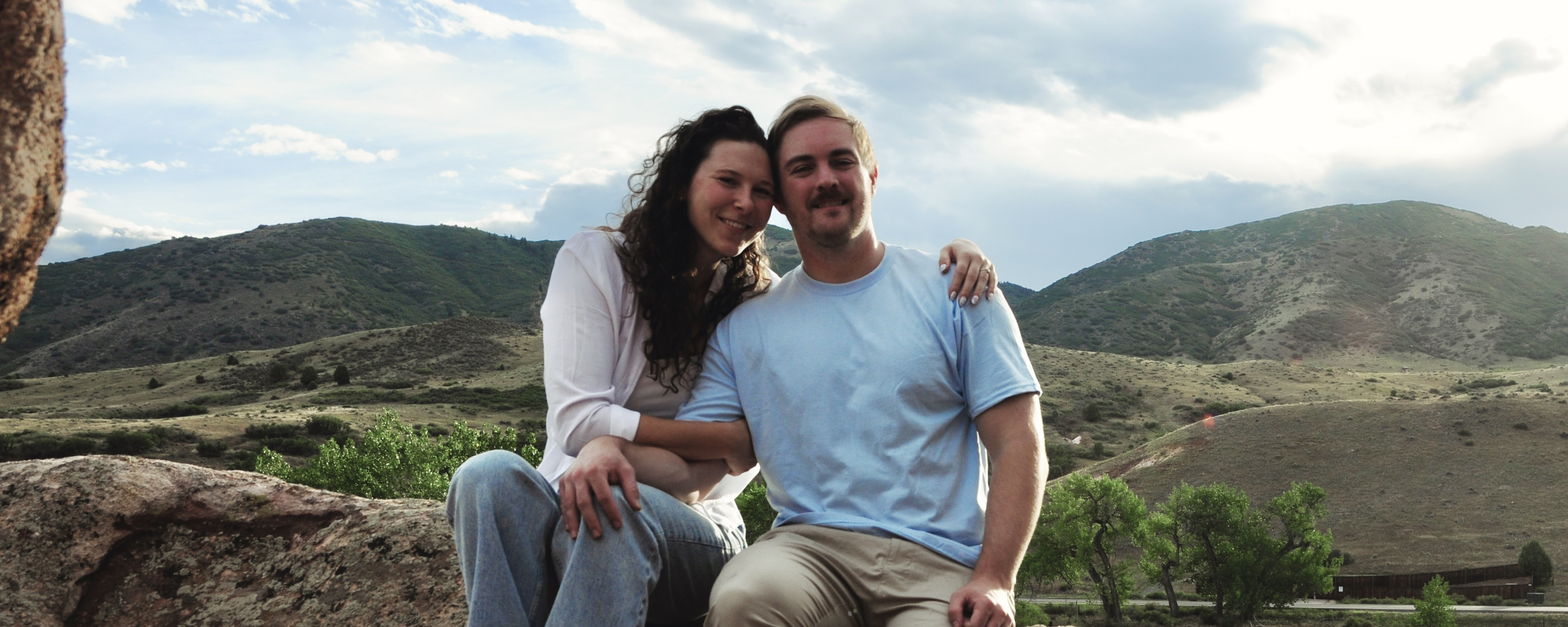
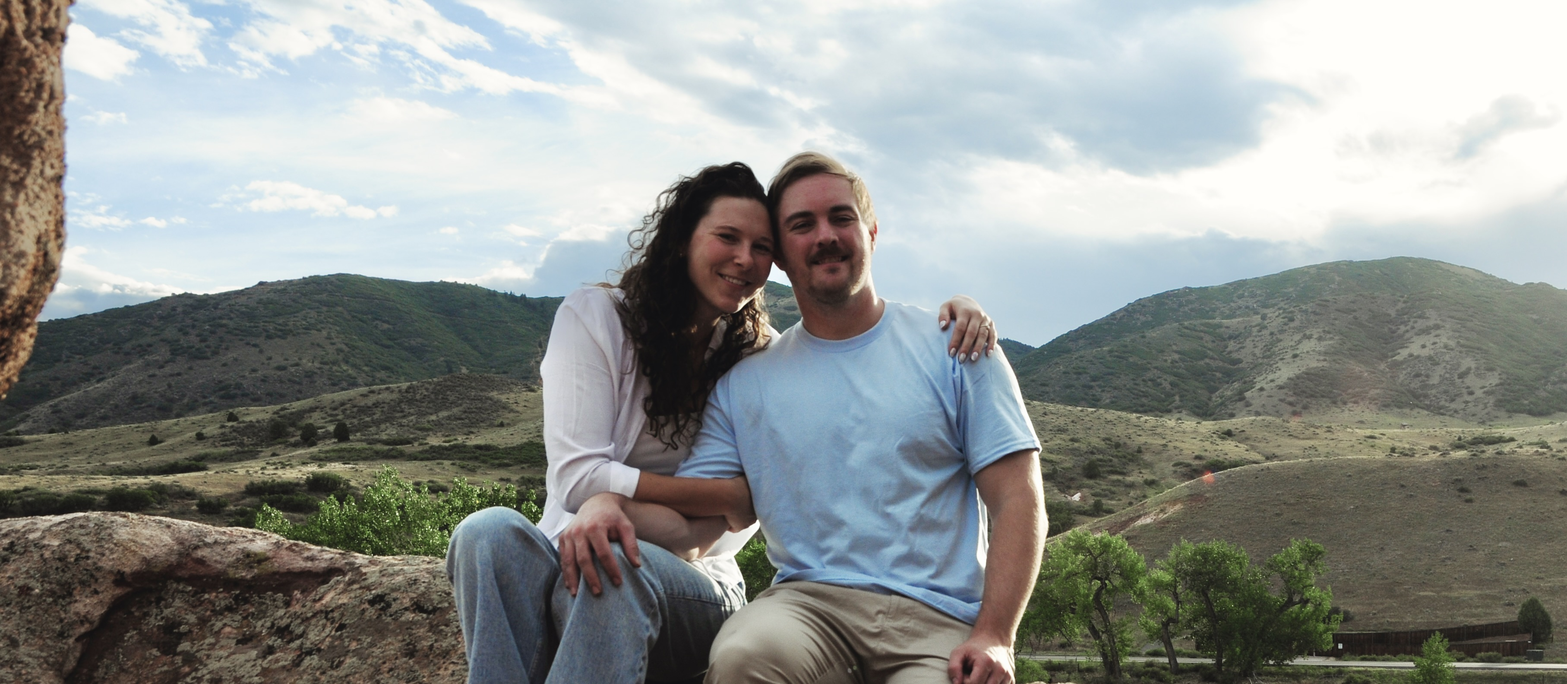
tweaks requested by parents' git push

diff --git a/details.html b/details.html
@@ -3,6 +3,7 @@
 <head>
   <meta charset="UTF-8">
   <meta name="viewport" content="width=device-width, initial-scale=1.0">
+  <meta name="robots" content="noindex, nofollow">
   <link rel="preconnect" href="https://fonts.googleapis.com">
   <link rel="preconnect" href="https://fonts.gstatic.com" crossorigin>
   <link
@@ -46,7 +47,7 @@
       <section class="page-header">
         <p class="eyebrow">THE CELEBRATION</p>
         <h1>Event Details</h1>
-        <p class="body-large">We can't wait to celebrate at our wedding reception with you! We're keeping things fun, inviting, and centered around what matters most: good food, good drinks, and good people. We'd love to have you there!</p>
+        <p class="body-large">We can't wait to celebrate our wedding reception with you! We're keeping things fun, inviting, and centered around what matters most: good food, good drinks, and good people. We'd love to have you there!</p>
       </section>
 
       <div class="hero-divider"></div>
@@ -73,14 +74,21 @@
             </div>
           </div>
           <div class="timeline-item">
-            <div class="timeline-time">6pm</div>
+            <div class="timeline-time">6:30pm</div>
             <div class="timeline-content">
-              <h3>Dinner</h3>
-              <p>Grab some food and enjoy a few words from the people we love.</p>
+              <h3>Time to eat</h3>
+              <p>Grab a plate of food and find a seat wherever you’d like! No assigned seating—keep mingling, grab a spot wherever, and enjoy dinner.</p>
             </div>
           </div>
           <div class="timeline-item">
-            <div class="timeline-time">7-10pm</div>
+            <div class="timeline-time">7pm</div>
+            <div class="timeline-content">
+              <h3>Speeches</h3>
+              <p>Enjoy a few words from the people we love. We promise to keep them short and sweet!</p>
+            </div>
+          </div>
+          <div class="timeline-item">
+            <div class="timeline-time">8-10pm</div>
             <div class="timeline-content">
               <h3>Drinks & dancing</h3>
               <p>Break out the dancing shoes and enjoy some music.</p>
@@ -136,7 +144,7 @@
           </div>
           <div class="info-card">
             <h3>Food & drinks</h3>
-            <p>Dinner and drinks will be provided. Please let us know about dietary restrictions when you RSVP.</p>
+            <p>Food and drinks will be provided. Please let us know about dietary restrictions when you RSVP.</p>
           </div>
           <div class="info-card">
             <h3>RSVP</h3>

diff --git a/faq.html b/faq.html
@@ -3,6 +3,7 @@
 <head>
   <meta charset="UTF-8">
   <meta name="viewport" content="width=device-width, initial-scale=1.0">
+  <meta name="robots" content="noindex, nofollow">
   <link rel="preconnect" href="https://fonts.googleapis.com">
   <link rel="preconnect" href="https://fonts.gstatic.com" crossorigin>
   <link
@@ -68,7 +69,7 @@
           <details class="faq-item">
             <summary>Is there a registry?<span>+</span></summary>
             <div class="faq-answer">
-              <p>Your presence is all we ask for but if you'd like to contribute to a house or travel fund, you can use <a href="https://venmo.com/u/Emily-Douglas-14" class="text-link" target="_blank" rel="noopener noreferrer">Venmo</a> or <a href="https://www.paypal.com/paypalme/emilymdouglas" class="text-link" target="_blank" rel="noopener noreferrer">PayPal</a>. Please make sure to include your name and what you think we should use the funds for (hiking the Andes? a bottle of wine in Italy? a certain household feature you could never live without?).</p>
+              <p>Your presence is all we ask for. However, if you'd like to contribute to a house or travel fund, you can use <a href="https://venmo.com/u/Emily-Douglas-14" class="text-link" target="_blank" rel="noopener noreferrer">Venmo</a> or <a href="https://www.paypal.com/paypalme/emilymdouglas" class="text-link" target="_blank" rel="noopener noreferrer">PayPal</a>. Please make sure to include your name and what you think we should use the funds for (hiking the Andes? a bottle of wine in Italy? a certain household feature you could never live without?).</p>
             </div>
           </details>
 
@@ -89,7 +90,7 @@
           <details class="faq-item">
             <summary>Where should I stay?<span>+</span></summary>
             <div class="faq-answer">
-              <p>We'll add hotel recommendations and information about getting around Madison as we get closer to the wedding.</p>
+              <p>We'll add hotel recommendations soon. There is a Badger football game scheduled for the same day as the reception, so we recommend booking your accommodation early.</p>
             </div>
           </details>
 

diff --git a/index.html b/index.html
@@ -3,6 +3,7 @@
 <head>
   <meta charset="UTF-8">
   <meta name="viewport" content="width=device-width, initial-scale=1.0">
+  <meta name="robots" content="noindex, nofollow">
   <link rel="preconnect" href="https://fonts.googleapis.com">
   <link rel="preconnect" href="https://fonts.gstatic.com" crossorigin>
   <link
@@ -55,9 +56,9 @@
           <p class="hero-message">We're getting married and we're so excited to celebrate with you!</p>-->
           <br>
           <a href="details.html" class="button button-outline">Wedding Reception Details</a>
+          <!--<br>
           <br>
-          <br>
-          <a href="details.html" class="button button-outline">RSVP</a>
+          <a href="details.html" class="button button-outline">RSVP</a>-->
         </div>
       </section>
       

diff --git a/our-story.html b/our-story.html
@@ -3,6 +3,7 @@
 <head>
   <meta charset="UTF-8">
   <meta name="viewport" content="width=device-width, initial-scale=1.0">
+  <meta name="robots" content="noindex, nofollow">
   <link rel="preconnect" href="https://fonts.googleapis.com">
   <link rel="preconnect" href="https://fonts.gstatic.com" crossorigin>
   <link

diff --git a/styles.css b/styles.css
@@ -511,9 +511,9 @@ color: var(--oxblood);
 .info-grid {
   display: grid;
   grid-template-columns: repeat(2, 1fr);
-  gap: 1px;
-  background: var(--line);
-  border: 1px solid var(--line);
+  gap: 8px;
+  /*background: var(--cream);
+  border: 1px solid var(--line);*/
 }
 
 .info-card {
